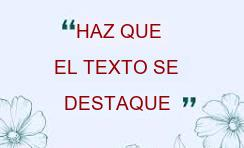
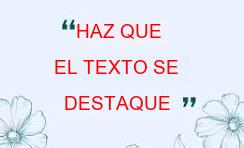
feat: gpu and model parameter tweaking

diff --git a/code/ocr_func.py b/code/ocr_func.py
@@ -20,9 +20,23 @@ def easy_ocr_function(image: str, from_lang: str):
     The confidence score is the last element of each tuple
     """
     # TODO: Create dictioniary to map standardized language codes to EasyOCR language codes
-    reader = easyocr.Reader([from_lang], gpu=True) # Can specify whether to use GPU or not
+    reader = easyocr.Reader(
+        [from_lang], 
+        # GPU stuff
+        gpu=True
+    ) 
+
     # Read the image and get the bounding boxes and text
-    result = reader.readtext(image, detail=1, paragraph=False, rotation_info=[0, 90, 180, 270], decoder="wordbeamsearch")
+    result = reader.readtext(
+        image, 
+        detail=1, 
+        paragraph=False, 
+        rotation_info=[0, 90, 180, 270], 
+        decoder="wordbeamsearch",
+        batch_size=8,
+        # Bounding box parameters 
+        width_ths=1, # Maximum horizontal distance to merge boxes - made a little wider
+    )
  
     # We want to return the bounding boxes and the text, so we will extract those
     bounding_pts = []
@@ -31,7 +45,7 @@ def easy_ocr_function(image: str, from_lang: str):
         points = found_text[0]
         text = found_text[1]
 
-        top_left, top_right, bottom_right, bottom_left  = points[0], points[1], points[2], points[3]
+        top_left, top_right, bottom_right, bottom_left = points[0], points[1], points[2], points[3]
         if DEBUGGING:
             print(f"Bounding box: {points}")
             print(f"Text: {text}")
